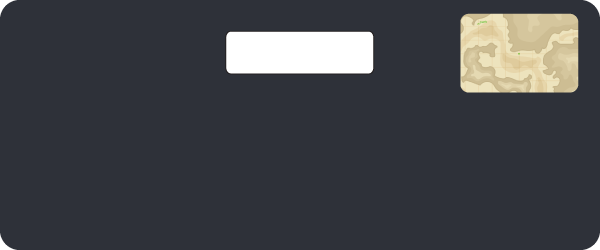
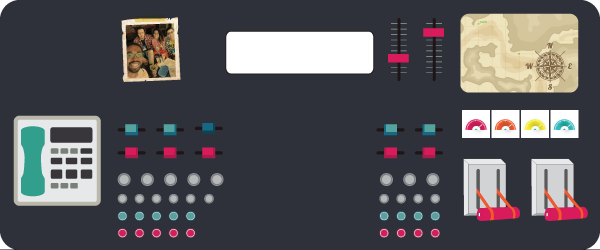
Added animations for warnings

diff --git a/src/states/loading.state.ts b/src/states/loading.state.ts
@@ -13,13 +13,13 @@ export default class LoadingState extends Phaser.State {
   private params
   private progressText
 
-  public init(nextState, params) {
+  public init (nextState, params) {
     this.nextState = nextState
     this.params = params
     this.game.stage.backgroundColor = 0xffffff
   }
 
-  public create() {
+  public create () {
     this.loadAssets(backgrounds)
     this.loadAssets(buttons)
     this.loadAssets(characters)
@@ -29,7 +29,7 @@ export default class LoadingState extends Phaser.State {
     this.setProgress()
   }
 
-  private loadAssets(assets) {
+  private loadAssets (assets) {
     for (let assetKey in assets) {
       if (assets.hasOwnProperty(assetKey)) {
         let asset = assets[assetKey];
@@ -46,6 +46,9 @@ export default class LoadingState extends Phaser.State {
           case "atlasJSONHash":
             this.load.atlasJSONHash(assetKey, asset.source, asset.texture)
             break;
+          case "atlasJSONArray":
+            this.load.atlasJSONArray(assetKey, asset.source, asset.texture)
+            break;
           case "audio":
             this.load.audio(assetKey, asset.source)
             break;
@@ -55,7 +58,7 @@ export default class LoadingState extends Phaser.State {
     }
   }
 
-  private setProgress() {
+  private setProgress () {
     this.progressText = this.game.add.text(this.game.world.centerX - 30, this.game.world.centerY, '0%', { fill: '#000000' })
 
     this.game.time.events.add(Phaser.Timer.SECOND * config.loading.delay, () => {
@@ -65,11 +68,11 @@ export default class LoadingState extends Phaser.State {
     }, this);
   }
 
-  private loadProgress(progress, cacheKey, success, totalLoaded, totalFiles) {
+  private loadProgress (progress, cacheKey, success, totalLoaded, totalFiles) {
     this.progressText.setText(progress + "%")
   }
 
-  private loadComplete() {
+  private loadComplete () {
     this.game.time.events.add(Phaser.Timer.SECOND * config.loading.delay, () => {
       this.game.state.start(this.nextState, true, false, this.params)
     }, this)

diff --git a/src/states/interface.state.ts b/src/states/interface.state.ts
@@ -17,6 +17,7 @@ export default class InterfaceState extends Phaser.State {
   private frequency: Frequency
   private sounds: Array<any>
   private noise: Phaser.Sound
+  private redAlert: Phaser.Sprite
   private voices = []
   private signals = []
   private warnings
@@ -36,6 +37,10 @@ export default class InterfaceState extends Phaser.State {
     let radioButton = hud.createButtonRadio()
     let slider = hud.createSlider()
     this.warnings = hud.createWarnings()
+    this.redAlert = hud.createRedAllert()
+    this.redAlert.inputEnabled = true
+
+    this.redAlert.events.onInputDown.add(this.pressRedAlert, this)
 
     this.game.time.events.loop(700, this.blinkWarning, this)
 
@@ -54,10 +59,15 @@ export default class InterfaceState extends Phaser.State {
     })
 
     let pause = new Pause(this.game)
+
   }
 
   public update () {
     this.rotator.update()
+  }
+
+  private pressRedAlert () {
+    // this.redAlert.frame = this.redAlert.frame === 1 ? 0 : 1
   }
 
   private updateFrequency () {
@@ -113,14 +123,10 @@ export default class InterfaceState extends Phaser.State {
     for (let warningKey in this.warnings) {
       if (this.warnings.hasOwnProperty(warningKey)) {
         let warning = this.warnings[warningKey]
-        if (warning.blink) {
-          if (warning.alpha) {
-            warning.alpha = 0;
-          } else {
-            warning.alpha = 1;
-          }
+        if (warning.blink && warning.animations.currentAnim !== 'blink') {
+          warning.animations.play('blink')
         } else {
-          warning.alpha = 1;
+          warning.animations.stop(null, true);
         }
       }
     }

diff --git a/src/prefabs/hud.ts b/src/prefabs/hud.ts
@@ -18,7 +18,7 @@ export class HUD {
   }
 
   public createButtonRadio () {
-    return this.game.add.sprite(this.panel.centerX, this.panel.centerY + 15, 'button_radio')
+    return this.game.add.sprite(this.panel.centerX, this.panel.centerY + 35, 'button_radio')
   }
 
   public createSlider () {
@@ -26,10 +26,17 @@ export class HUD {
   }
 
   public createWarnings () {
-    let green = this.game.add.sprite(this.panel.x + 100, this.panel.y + 100, 'button_warning_green')
-    let yellow = this.game.add.sprite(this.panel.x + 120, this.panel.y + 100, 'button_warning_yellow')
-    let red = this.game.add.sprite(this.panel.x + 140, this.panel.y + 100, 'button_warning_red')
+    let green = this.game.add.sprite(this.panel.x + 160, this.panel.y + 95, 'panel_sprites', 'botao-verdinho')
+    green.animations.add('blink', ['botao-verdinho', 'botao-verdinho-brilhando'], 2)
+    let yellow = this.game.add.sprite(this.panel.x + 180, this.panel.y + 95, 'panel_sprites', 'botao-amarelinho')
+    yellow.animations.add('blink', ['botao-amarelinho', 'botao-amarelinho-brilhando'], 2)
+    let red = this.game.add.sprite(this.panel.x + 200, this.panel.y + 95, 'panel_sprites', 'botao-vermelhinho')
+    red.animations.add('blink', ['botao-vermelhinho', 'botao-vermelhinho-brilhando'], 2)
     return { green, yellow, red }
+  }
+
+  public createRedAllert () {
+    return this.game.add.sprite(this.panel.x + 20, this.panel.y + 15, 'panel_sprites', 'botao-vermelho')
   }
 
 }

diff --git a/src/schemes/characters.ts b/src/schemes/characters.ts
@@ -1,3 +1,12 @@
 export default {
-
+  alert_button: {
+    type: 'atlasJSONHash',
+    source: 'assets/images/sprites/alert-button/alert-button.png',
+    texture: 'assets/images/sprites/alert-button/alert-button.json'
+  },
+  panel_sprites: {
+    type: 'atlasJSONArray',
+    source: 'assets/images/sprites/panel-sprites.png',
+    texture: 'assets/images/sprites/panel-sprites.json'
+  }
 }
